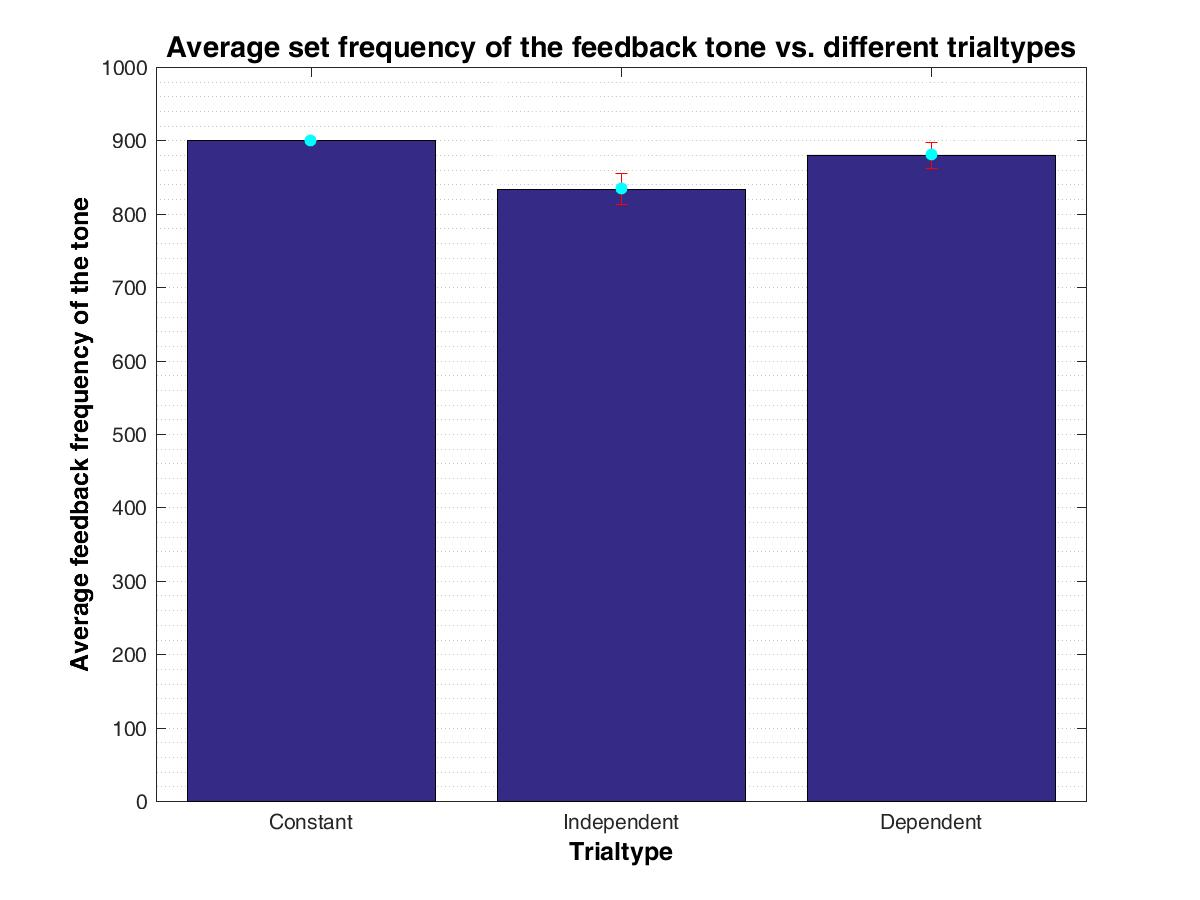
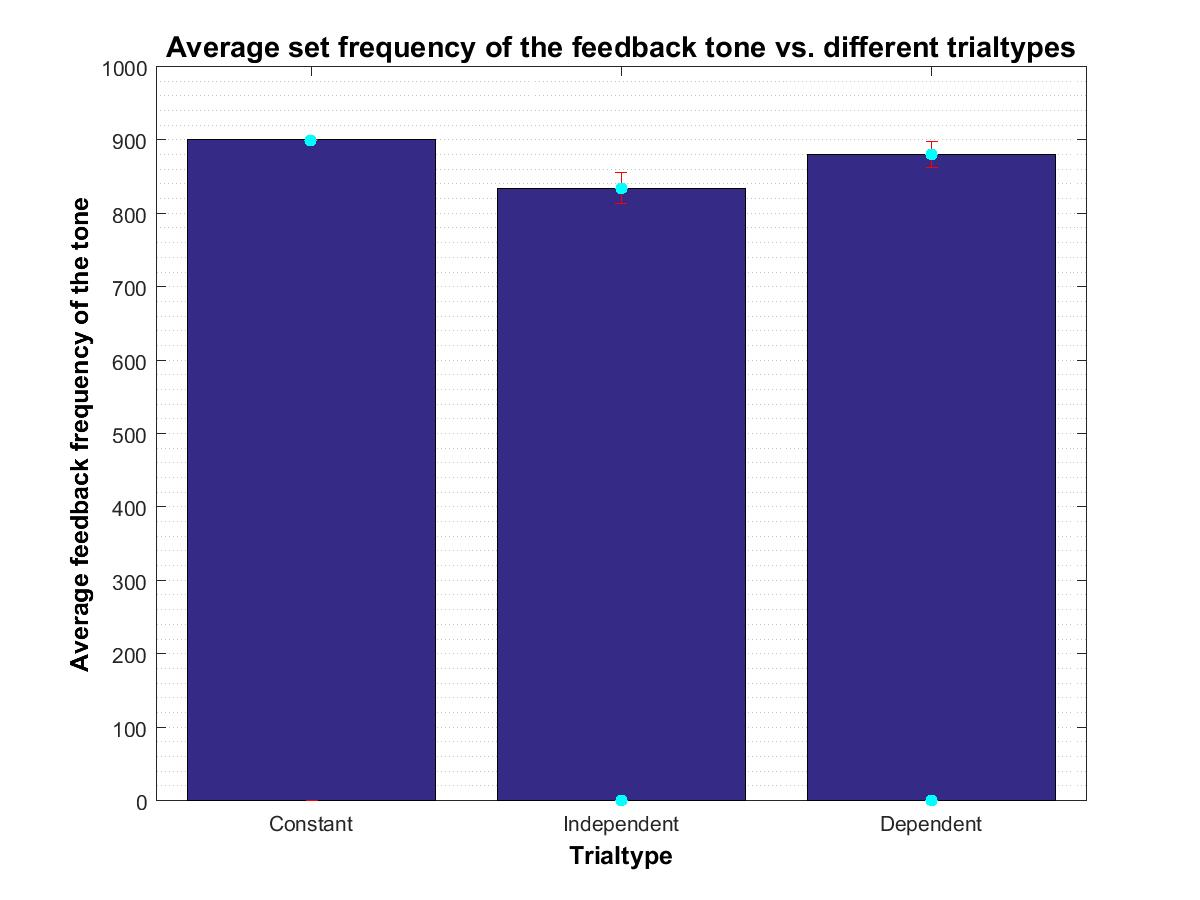
Initial Analysis Done
Two new analysis scripts have been added.
(1) Plotting average change in  alpha power vs trialtypes; to see any
significant change
(2)  Plotting average change in alphapower with trial no to see
evolution of alpha with time

diff --git a/analysis_two.m b/analysis_two.m
@@ -1,0 +1,134 @@
+% Data conversion script:
+% conversion of the data and plotting the relevant graphs
+
+%% Plot 3: To check that the alphapower is changing as trial progression is happening with time or not?
+
+% clearing all the variable exept the data;
+clearvars -except data bl1Trialtype
+
+% load the data file; (imp : change this if the path changes);
+
+load('C:\Users\RayLabCNS\Documents\MATLAB\Ankan_M\Recorded Data\ButterflyProjectRawData\BiofeedbackData_Sayantan_161016\biofeedback_161016SayantanFinal1.mat');
+
+% %% We would define a matix setfreqdata 
+% We would define a matix alphapowerdata
+
+% powerdata    = []; dont need it right now
+
+% Creating separate matrix for the constant, alpha and alpha 
+% indpendent data
+% keeping it same
+
+% consData       = [];
+% alpahDepData   = [];
+% alphaIndData   = [];
+
+%% Getting specified indices which meets a trial condion.
+
+constant = find(bl1Trialtype==0);
+alpahdep = find(bl1Trialtype==1);
+alphaind = find(bl1Trialtype==2);
+
+% Next we would in for loop bring the data in it:
+% have to change here to bring alphapowerdata from data
+% $ for that I have to knwo where alpha power is getting stored?
+starttime = 8;
+endtime = 57;
+
+%% Extracting alphapower from the recorded data:
+
+for i=1:16
+%     rawalphapow = [];
+    rawAlphaPow = data{1,1}{2,i};
+    rawAlphaPow = rawAlphaPow*10;
+    alphaPower = mean(rawAlphaPow(:,8:15),2)';
+    alphaPowerAllTrial(i,:) = alphaPower(starttime:endtime);    
+end
+
+average_alphaPowerAllTrials = mean(alphaPowerAllTrial,2);
+average_alphaPowerAllTrials = average_alphaPowerAllTrials';
+
+%% Note: set freq data is a matrix which have the setfredata in 
+%  The x axis and in y axis(coloum no) denotes the trail no)
+%  Now from this I have to pull out the trials which I need.
+%  Now I would make three matix out of this original matrix
+%  each one would be for a separate trial type
+
+%% Creating final data matrix
+
+% Creating consdata matrix
+
+for i = 1:size(constant,2)
+    rowval = constant(i);
+    consData(i,:) = alphaPowerAllTrial(rowval,:);   
+end
+% 
+% % Similarly for other matrices
+% 
+for i = 1:size(alpahdep,2)
+    rowval = alpahdep(i);
+    alpahDepData (i,:) = alphaPowerAllTrial(rowval,:);   
+end
+% 
+for i = 1:size(alphaind,2)
+    rowval = alphaind(i);
+    alphaIndData(i,:) = alphaPowerAllTrial(rowval,:);   
+end
+
+% average across trials
+% avgacr_trials_consData     = mean(consData,1);
+% avgacr_trials_alpaDepData = mean(alpahDepData,1);
+% avgacr_trials_alphaIndData = mean(alphaIndData,1);
+
+% average across timeperiods 
+avgtime_consData = mean(consData,2)';         % std_ConsData     = std(avgacr_trials_consData);    
+avgtime_alpaDepData = mean(alpahDepData,2)';  % std_alpaDepData  = std(avgacr_trials_alpaDepData);
+avgtime_alphaIndData = mean(alphaIndData,2)'; % std_alphaIndData = std(avgacr_trials_alphaIndData);
+
+
+% acculmulating the datas in one single array;
+% in the order : constand dependent independent
+
+trialno = [1,2,3,4,5,6,7,8,9,10,11,12,13,14,15,16];  % x axis
+constrailno = [1,2,3,4];
+deptrailano = [1,2,3,4,5,6,7,8];
+indtraialno = [1,2,3,4];
+
+% avgsetfreq = [avgtime_consData,avgtime_alpaDepData,avgtime_alphaIndData];
+% error_upper      = [0,std_alpaDepData,std_alphaIndData];
+% error_lower      = [std_ConsData,0,0];
+% plotting
+% bar(trialtypes,avgsetfreq); hold on
+% hc = errorbar(trialtypes,avgsetfreq,error_lower,error_upper,'.','MarkerSize',20,...
+%     'MarkerEdgeColor','cyan','MarkerFaceColor','cyan');
+
+subplot(2,3,1);
+plot(constrailno,avgtime_consData,'b-*');
+% set(gca,'XTickLabel',{'1','2','3','4'});
+title('Contant feedback','FontSize',10,'FontWeight','bold','Color','k');
+xlabel('TrialNumber','FontSize',8,'FontWeight','bold','Color','k'); ylabel('Change in Alphapower(db)','FontSize',8,'FontWeight','bold','Color','k');
+subplot(2,3,2);
+plot(deptrailano,avgtime_alpaDepData,'b-*');
+% set(gca,'XTickLabel',{'1','2','3','4','5','6','7','8'});
+title('AlphaDep Feedback','FontSize',10,'FontWeight','bold','Color','k');
+xlabel('TrialNumber','FontSize',8,'FontWeight','bold','Color','k'); ylabel('Change in Alphapower(db)','FontSize',8,'FontWeight','bold','Color','k');
+subplot(2,3,3);
+plot(indtraialno,avgtime_alphaIndData,'b-*');
+% set(gca,'XTickLabel',{'1','2','3','4'});
+title('AlphaInDep Feedback','FontSize',10,'FontWeight','bold','Color','k');
+xlabel('TrialNumber','FontSize',8,'FontWeight','bold','Color','k'); ylabel('Change in Alphapower(db)','FontSize',8,'FontWeight','bold','Color','k');
+subplot(2,3,[4,5,6]);
+plot(trialno,average_alphaPowerAllTrials,'b-*');
+% set(hc,'color','r')
+% grid on
+ax = gca;
+ax.YMinorGrid = 'on';
+% set(gca,'XTickLabel',{'1','2','3','4','5','6','7','8','9','10','11','12','13','14','15','16'})
+% ax.XTickLabel={'ankan'} % this would work also, % the hing to remember
+% here is to put this string in a cell array not in a matrix.
+xlabel('TrialNumber','FontSize',12,'FontWeight','bold','Color','k'); ylabel('Change in Alphapower(db)','FontSize',12,'FontWeight','bold','Color','k');
+title('Chnage in AlphaPower  vs. trialno','FontSize',14,'FontWeight','bold','Color','k');
+
+% save the figure in the pwd;
+saveas(gca,'average alpha power vs. trialno.png','png');
+

diff --git a/analysis_one.m b/analysis_one.m
@@ -1,7 +1,7 @@
 % Data conversion script:
 % conversion of the data and plotting teh relevant graphs
 
-%% Plot 1: To check that the set frequencies of the feedback tone is more or less simililar.
+%% Plot 2: Alphapower with trialtypes
 
 % clearing all the variable exept the data;
 clearvars -except data bl1Trialtype
@@ -10,12 +10,14 @@ clearvars -except data bl1Trialtype
 
 load('C:\Users\RayLabCNS\Documents\MATLAB\Ankan_M\Recorded Data\ButterflyProjectRawData\BiofeedbackData_Sayantan_161016\biofeedback_161016SayantanFinal1.mat');
 
-%% We would define a matix setfreqdata 
+% %% We would define a matix setfreqdata 
+% We would define a matix alphapowerdata
 
-setfreqdata    = [];
+% powerdata    = []; dont need it right now
 
 % Creating separate matrix for the constant, alpha and alpha 
 % indpendent data
+% keeping it same
 
 consData       = [];
 alpahDepData   = [];
@@ -28,14 +30,21 @@ alpahdep = find(bl1Trialtype==1);
 alphaind = find(bl1Trialtype==2);
 
 % Next we would in for loop bring the data in it:
+% have to change here to bring alphapowerdata from data
+% $ for that I have to knwo where alpha power is getting stored?
+starttime = 8;
+endtime = 57;
 
 for i=1:16
-    
-    setfreqdata(i,:) = data{1,1}{4,i};    
+%     rawalphapow = [];
+    rawAlphaPow = data{1,1}{2,i};
+    rawAlphaPow = rawAlphaPow*10;
+    alphaPower = mean(rawAlphaPow(:,8:15),2)';
+    alphaPowerAllTrial(i,:) = alphaPower(starttime:endtime);    
 end
 
 %% Note: set freq data is a matrix which have the setfredata in 
-%  The x axis (trials) -> in rows all the 50 setfreqs which are kept in y axis(coloum no) 
+%  The x axis and in y axis(coloum no) denotes the trail no)
 %  Now from this I have to pull out the trials which I need.
 %  Now I would make three matix out of this original matrix
 %  each one would be for a separate trial type
@@ -46,51 +55,51 @@ end
 
 for i = 1:size(constant,2)
     rowval = constant(i);
-    consData(i,:) = setfreqdata(rowval,:);   
+    consData(i,:) = alphaPowerAllTrial(rowval,:);   
 end
 
 % Similarly for other matrices
 
 for i = 1:size(alpahdep,2)
     rowval = alpahdep(i);
-    alpahDepData (i,:) = setfreqdata(rowval,:);   
+    alpahDepData (i,:) = alphaPowerAllTrial(rowval,:);   
 end
 
 for i = 1:size(alphaind,2)
     rowval = alphaind(i);
-    alphaIndData(i,:) = setfreqdata(rowval,:);   
+    alphaIndData(i,:) = alphaPowerAllTrial(rowval,:);   
 end
 
 % average across trials
-avgacr_trials_consData     = mean(consData,1);
-avgacr_trials_alpaDepData = mean(alpahDepData,1);
-avgacr_trials_alphaIndData = mean(alphaIndData,1);
+% avgacr_trials_consData     = mean(consData,1);
+% avgacr_trials_alpaDepData = mean(alpahDepData,1);
+% avgacr_trials_alphaIndData = mean(alphaIndData,1);
 % average across timeperiods
-avgtime_consData = mean(avgacr_trials_consData,2);         std_ConsData     = std(avgacr_trials_consData);
-avgtime_alpaDepData = mean(avgacr_trials_alpaDepData,2);   std_alpaDepData  = std(avgacr_trials_alpaDepData);
-avgtime_alphaIndData = mean(avgacr_trials_alphaIndData,2); std_alphaIndData = std(avgacr_trials_alphaIndData);
+avgtime_consData = mean(consData(:));         std_ConsData     = (std(consData(:)))/sqrt(200);
+avgtime_alpaDepData = mean(alpahDepData(:));   std_alpaDepData  = (std(alpahDepData(:)))/sqrt(400);
+avgtime_alphaIndData = mean(alphaIndData(:)); std_alphaIndData = (std(alphaIndData(:)))/sqrt(200);
 
 % acculmulating the datas in one single array;
 % in the order : constand dependent independent
 
 trialtypes = [1:3];  % x axis
 avgsetfreq = [avgtime_consData,avgtime_alpaDepData,avgtime_alphaIndData];
-error      = [std_ConsData,std_alpaDepData,std_alphaIndData];
-
+error_upper      = [0,std_alpaDepData,std_alphaIndData];
+error_lower      = [std_ConsData,0,0];
 % plotting
 bar(trialtypes,avgsetfreq); hold on
-hc = errorbar(trialtypes,avgsetfreq,error,'.','MarkerSize',20,...
+hc = errorbar(trialtypes,avgsetfreq,error_lower,error_upper,'.','MarkerSize',20,...
     'MarkerEdgeColor','cyan','MarkerFaceColor','cyan');
 set(hc,'color','r')
 % grid on
 ax = gca;
 ax.YMinorGrid = 'on';
-set(gca,'YLim',[0 1000],'XTickLabel',{'Constant','Independent','Dependent'})
+set(gca,'YLim',[-4 4],'XTickLabel',{'Constant','Independent','Dependent'})
 % ax.XTickLabel={'ankan'} % this would work also, % the hing to remember
 % here is to put this string in a cell array not in a matrix.
-xlabel('Trialtype','FontSize',12,'FontWeight','bold','Color','k'); ylabel('Average feedback frequency of the tone','FontSize',12,'FontWeight','bold','Color','k');
-title('Average set frequency of the feedback tone vs. different trialtypes','FontSize',14,'FontWeight','bold','Color','k');
+xlabel('Trialtype','FontSize',12,'FontWeight','bold','Color','k'); ylabel('Change in Alphapower(db)','FontSize',12,'FontWeight','bold','Color','k');
+title('Average change in alphapower vs. different trialtypes','FontSize',14,'FontWeight','bold','Color','k');
 
 % save the figure in the pwd;
-saveas(gca,'Average set frequency of the feedback tone vs. different trialtypes.jpeg','jpeg');
+saveas(gca,'average alpha power vs. different trialtypes.png','png');
 

diff --git a/calculateChangeInSpectrum_ver2.m b/calculateChangeInSpectrum_ver2.m
@@ -10,7 +10,7 @@
 % instead of a global variable.
 
         
-function [rawdata ,powerdata,incrFact,setfreqdata,relqut,susqut] = calculateChangeInSpectrum_ver2(handles,alphaLowerLimit,alphaUpperLimit,t_type)%,betaLowerLimit,betaUpperLimit)
+function [rawdata,powerdata,incrFact,setfreqdata,relqut,susqut] = calculateChangeInSpectrum_ver2(handles,alphaLowerLimit,alphaUpperLimit,t_type)%,betaLowerLimit,betaUpperLimit)
 
 pnet('closeall')   % Closing all the previously opended pnet connections
 pauseseconds = 10;  % pause after each trial
@@ -134,6 +134,8 @@ params.pad = -1; % no padding
 params.Fs = Fs; % sampling frequency
 params.trialave = 0; % average over trials
 params.fpass = [0 Fs/10];
+%%
+% *BOLD TEXT*
 
 % Initializing the variables
 count = 0; 
@@ -255,9 +257,9 @@ while (count < totPass)
                 % the runtime
                 
                 dPower = handles.dPowerBL;
-                dPower=double(dPower);
+                dPower = double(dPower);
                 alphaPower = mean(dPower(:,alphaLowerLimit:alphaUpperLimit),2);
-                dPower=[dPower; double(conv2Log(squeeze(mean(power(count,:,:),3)))) - mLogBL];
+                dPower = [dPower; double(conv2Log(squeeze(mean(power(count,:,:),3)))) - mLogBL];
                 
                               
                %% introducing a new variable 'cap' in which count for the incrFactRaw and incrFact would be kept.

diff --git a/subplottry.m b/subplottry.m
@@ -1,0 +1,9 @@
+ x=0:.1:2*pi;
+subplot(2,3,1);
+plot(x,sin(x));
+subplot(2,3,2);
+plot(x,cos(x));
+subplot(2,3,3);
+plot(x,exp(-x));
+subplot(2,3,[4,5,6]);
+plot(peaks);
